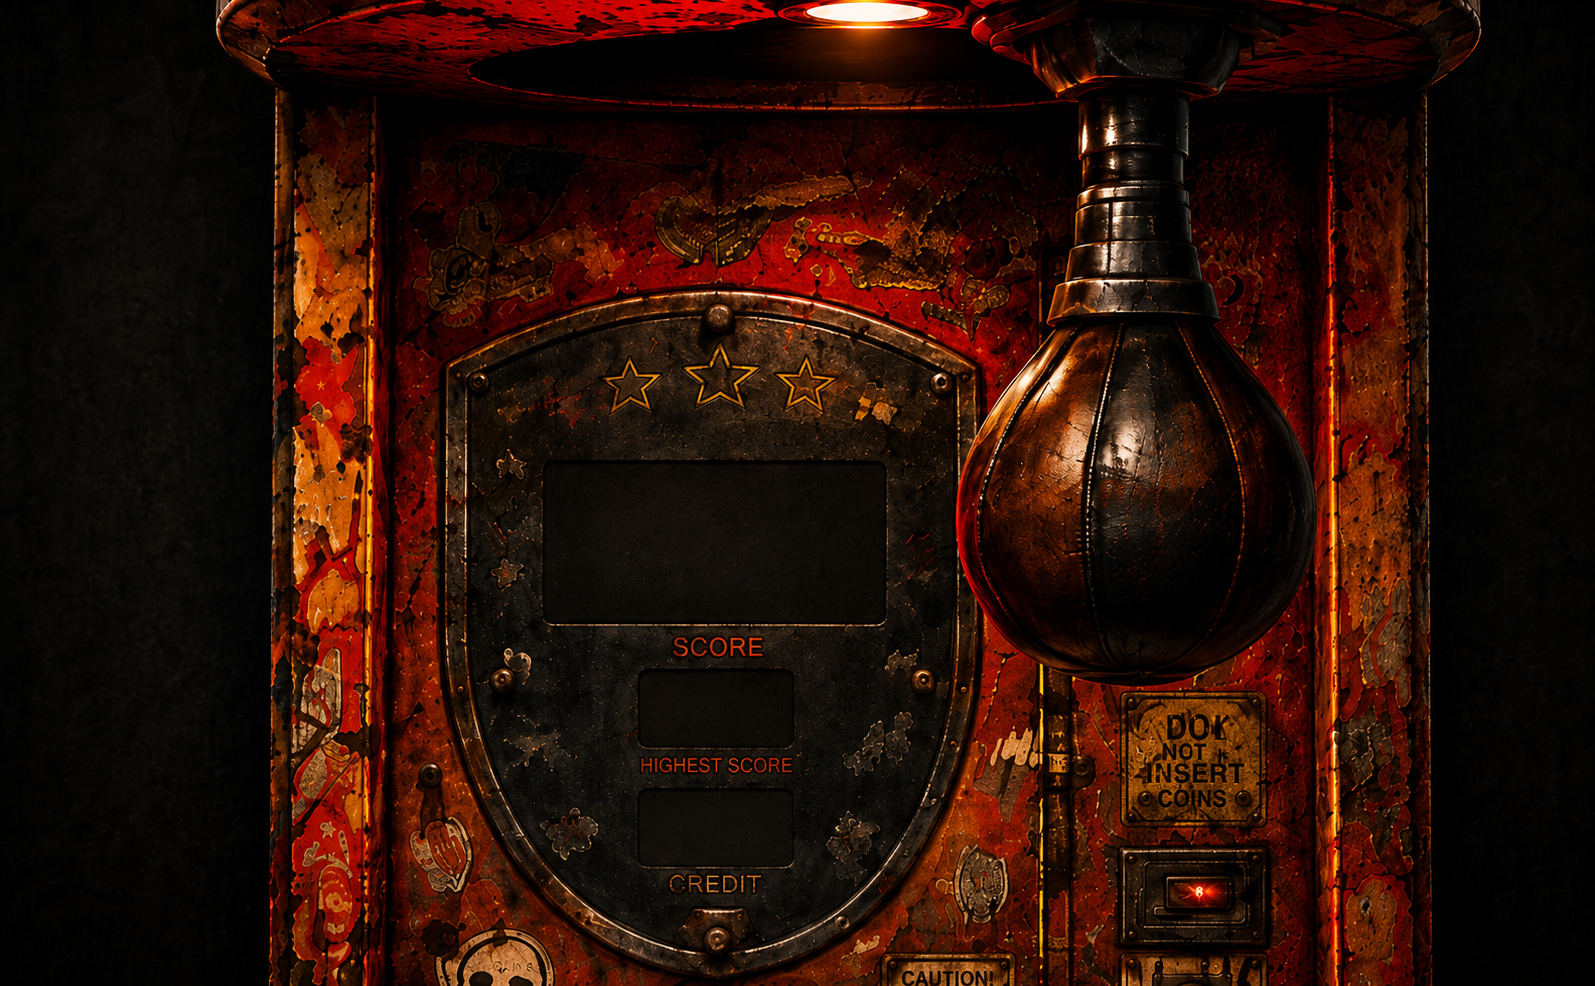
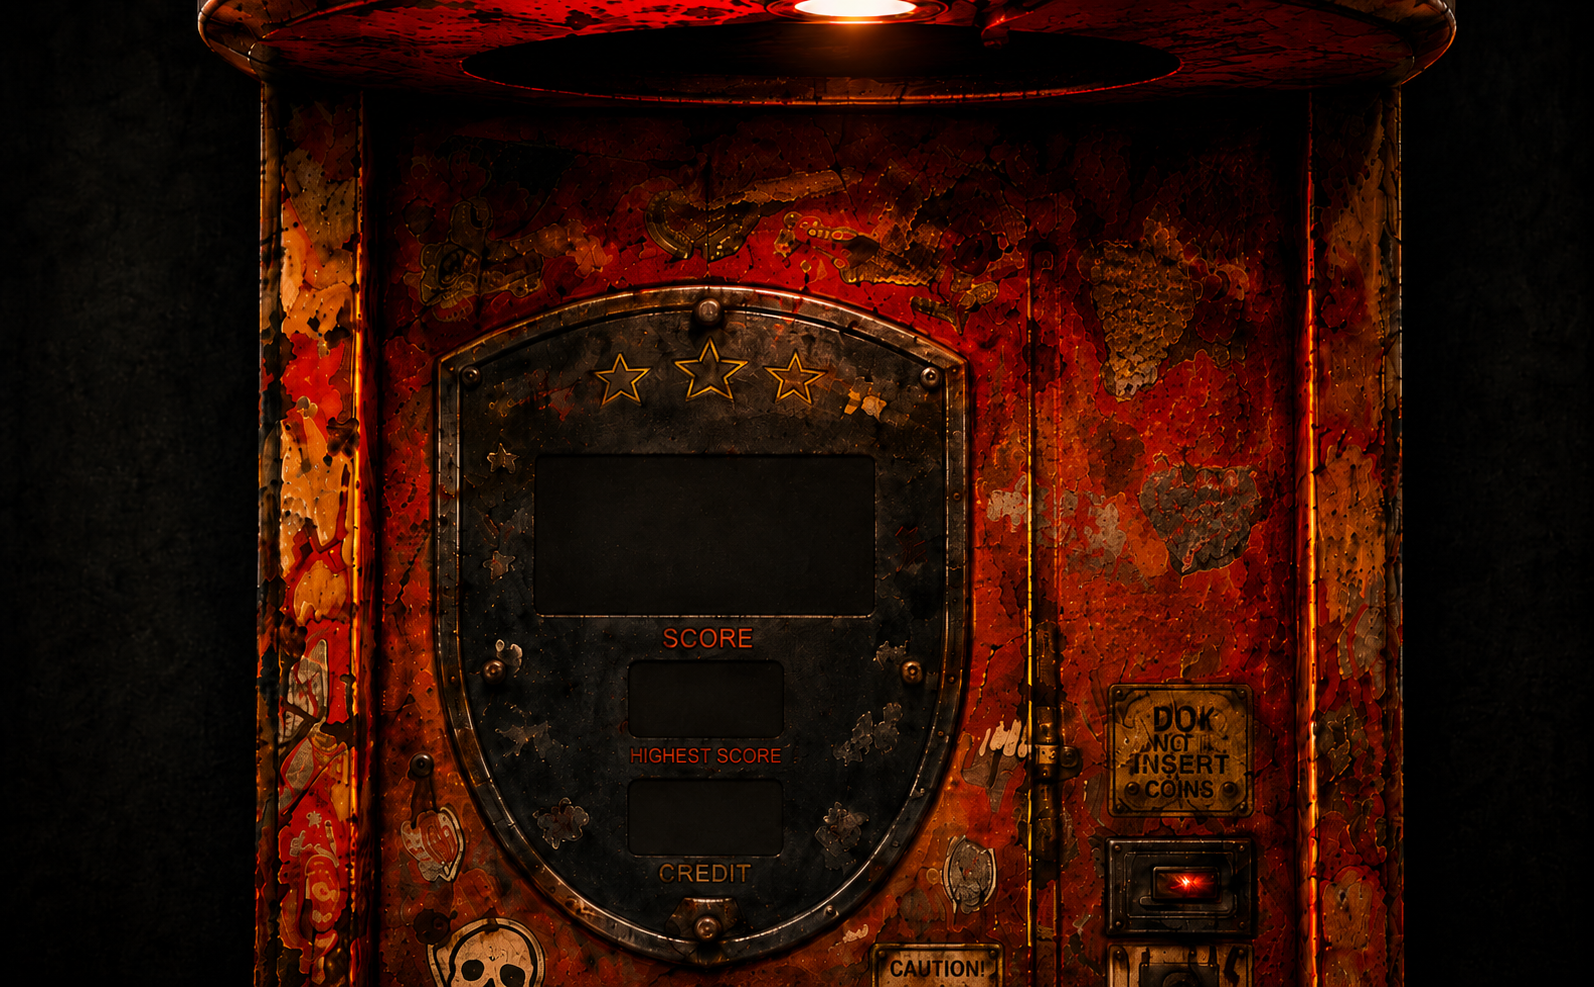
wydzielenie gruchy boxera

diff --git a/frontend/src/views/Boxer.tsx b/frontend/src/views/Boxer.tsx
@@ -2,6 +2,9 @@ import { useState } from "react";
 import { useCharacter } from "../context/CharacterContext";
 import "../css/BoxerView.css";
 import { useAlert } from "../context/AlertContext.tsx";
+import boxerIdle from "../assets/scenes/boxer/boxer_idle.png";
+import boxerHit from "../assets/scenes/boxer/boxer_hit.png";
+import boxerIdleHover from "../assets/scenes/boxer/boxer_idle_hover.png";
 
 interface BoxerResultDto {
     result: number;
@@ -14,6 +17,7 @@ function Boxer() {
     const [bet, setBet] = useState(10);
     const [displayScore, setDisplayScore] = useState<number>(0);
     const [finalResult, setFinalResult] = useState<BoxerResultDto | null>(null);
+    const [hovered, setHovered] = useState(false);
     const [playing, setPlaying] = useState(false);
     const {refreshCharacter} = useCharacter();
     const {showError} = useAlert();
@@ -46,6 +50,10 @@ function Boxer() {
     }
 
     const playBoxer = async () => {
+        if(playing) {
+            return;
+        }
+
         try {
             setPlaying(true);
             setFinalResult(null);
@@ -80,6 +88,14 @@ function Boxer() {
         }
     }
 
+    let boxerImage = boxerIdle;
+
+    if (playing) {
+        boxerImage = boxerHit;
+    } else if (hovered) {
+        boxerImage = boxerIdleHover;
+    }
+
     return (
         <div className="outsideBoxer">
             <div className="boxer-score-display">
@@ -100,11 +116,18 @@ function Boxer() {
                 />
             </div>
 
-            <button
-                className="boxer-hit-button"
-                onClick={playBoxer}
-                disabled={playing}
-            />
+            <div className="boxer-hit-button">
+                <img
+                    src={playing ? boxerHit : boxerImage}
+                    alt="boxer_idle"
+                    width={447}
+                    height={708}
+                    className="boxer-hit-button-img"
+                    onClick={playBoxer}
+                    onMouseEnter={() => setHovered(true)}
+                    onMouseLeave={() => setHovered(false)}
+                />
+            </div>
 
             {finalResult && !playing && (
                 <div className="boxer-info-display">

diff --git a/frontend/src/css/BoxerView.css b/frontend/src/css/BoxerView.css
@@ -17,8 +17,8 @@
 
 .boxer-score-display {
     position: absolute;
-    left: 444px;
-    top: 413px;
+    left: 437px;
+    top: 405px;
     width: 285px;
     height: 100px;
 
@@ -34,8 +34,8 @@
 
 .boxer-credit-display {
     position: absolute;
-    left: 516px;
-    top: 663px;
+    left: 508px;
+    top: 653px;
     width: 140px;
     height: 70px;
 }
@@ -57,19 +57,18 @@
 
 .boxer-hit-button {
     position: absolute;
-    left: 815px;
-    top: 280px;
-    width: 220px;
-    height: 270px;
+    left: 675px;
+    top: -30px;
+    width: 447px;
+    height: 708px;
 
-    background: transparent;
-    border: none;
+    z-index: 999;
     cursor: pointer;
 }
 
 .boxer-result-text {
     position: absolute;
-    left: 480px;
+    left: 460px;
     top: 740px;
 
     font-size: 28px;

diff --git a/backend/src/main/java/com/gametest/springprojekt/service/BoxerService.java b/backend/src/main/java/com/gametest/springprojekt/service/BoxerService.java
@@ -63,7 +63,7 @@ public class BoxerService {
     private BoxerResultDto calculateResult(int luck, int bet, int strength) {
         int score;
         boolean isLucky = isLuckyStrike(luck);
-        int strengthBonus = (int) Math.sqrt(strength);
+        int strengthBonus = (int) Math.sqrt(strength/2.0);
 
         if (isLucky) {
             score = luckyStrike(strengthBonus);
@@ -72,11 +72,13 @@ public class BoxerService {
             score = normalStrike(strengthBonus);
         }
 
+        score = Math.min(score, 999);
+
         double multiplier = getPayoutMultiplier(score);
 
         int winAmount = (int) (bet * multiplier);
 
-        return new BoxerResultDto(Math.min(score, 999), winAmount, bet, isLucky);
+        return new BoxerResultDto(score, winAmount, bet, isLucky);
     }
 
     private int normalStrike(int strengthBonus) {
@@ -100,7 +102,7 @@ public class BoxerService {
     }
 
     private int luckyStrike(int strengthBonus) {
-        return 850 + random.nextInt(150) +  strengthBonus;
+        return 750 + random.nextInt(250) +  strengthBonus;
     }
 
     private double getPayoutMultiplier(int score) {